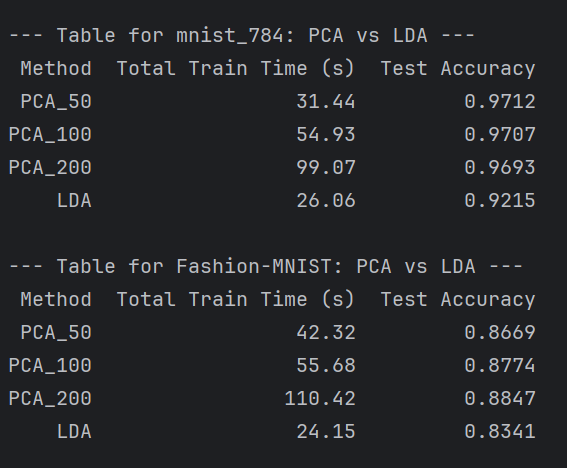
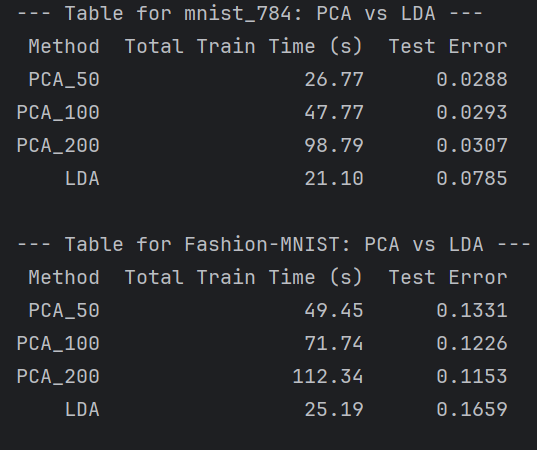
updated 3.2 to use a constant solver and better calc for the test error

diff --git a/Assignment3/Assignment_3.py b/Assignment3/Assignment_3.py
@@ -50,12 +50,13 @@ def pca_lad_compare(data_name):
         pipe = pipe.fit(X_train, y_train)
         total_train_time = time.time() - start_time
 
-        test_acc = pipe.score(X_test, y_test)
+        preds = pipe.predict(X_test)
+        error = accuracy_score(y_test, preds)
 
         pca_lda_results.append({
             'Method': name,
             'Total Train Time (s)': round(total_train_time, 2),
-            'Test Error': 1 - round(test_acc, 4)
+            'Test Error': 1 - round(error, 4)
         })
 
     df_pca_lda = pd.DataFrame(pca_lda_results)
